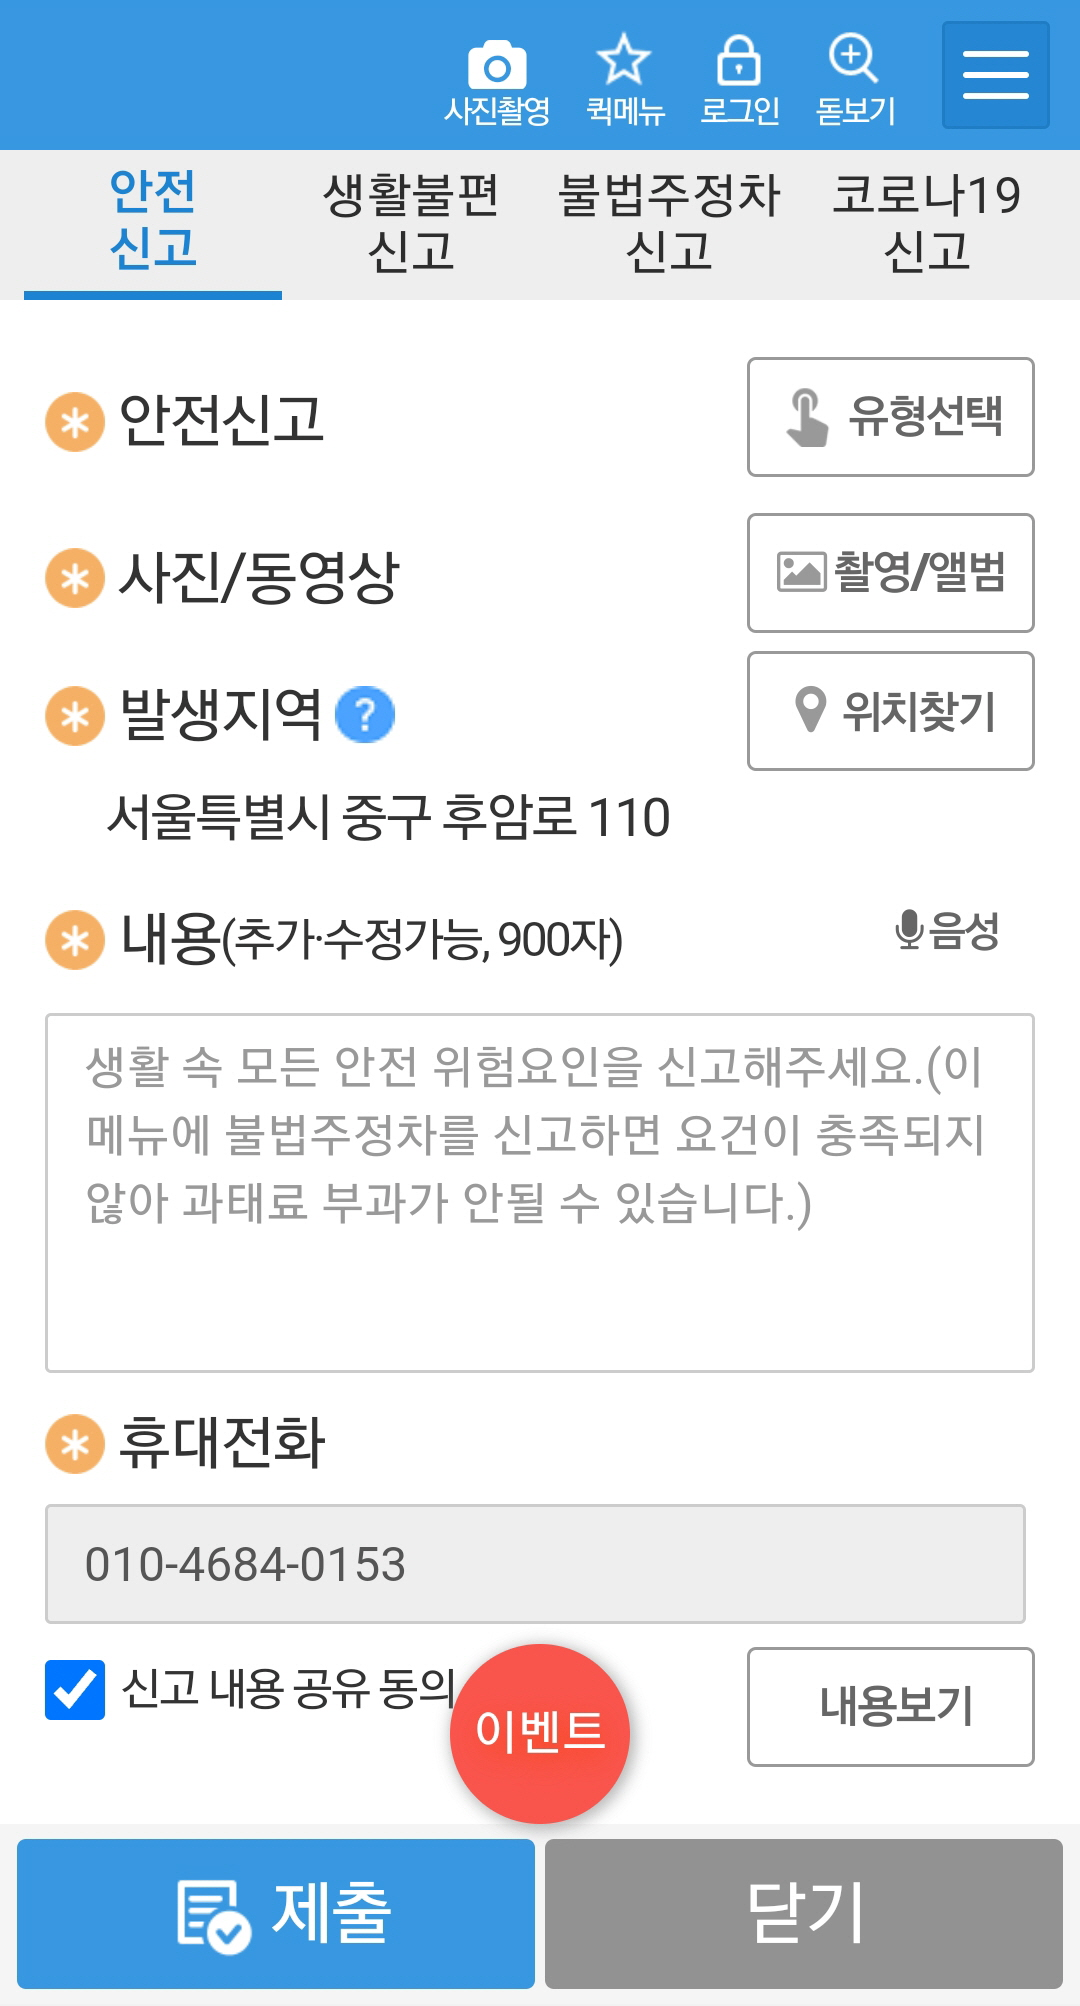
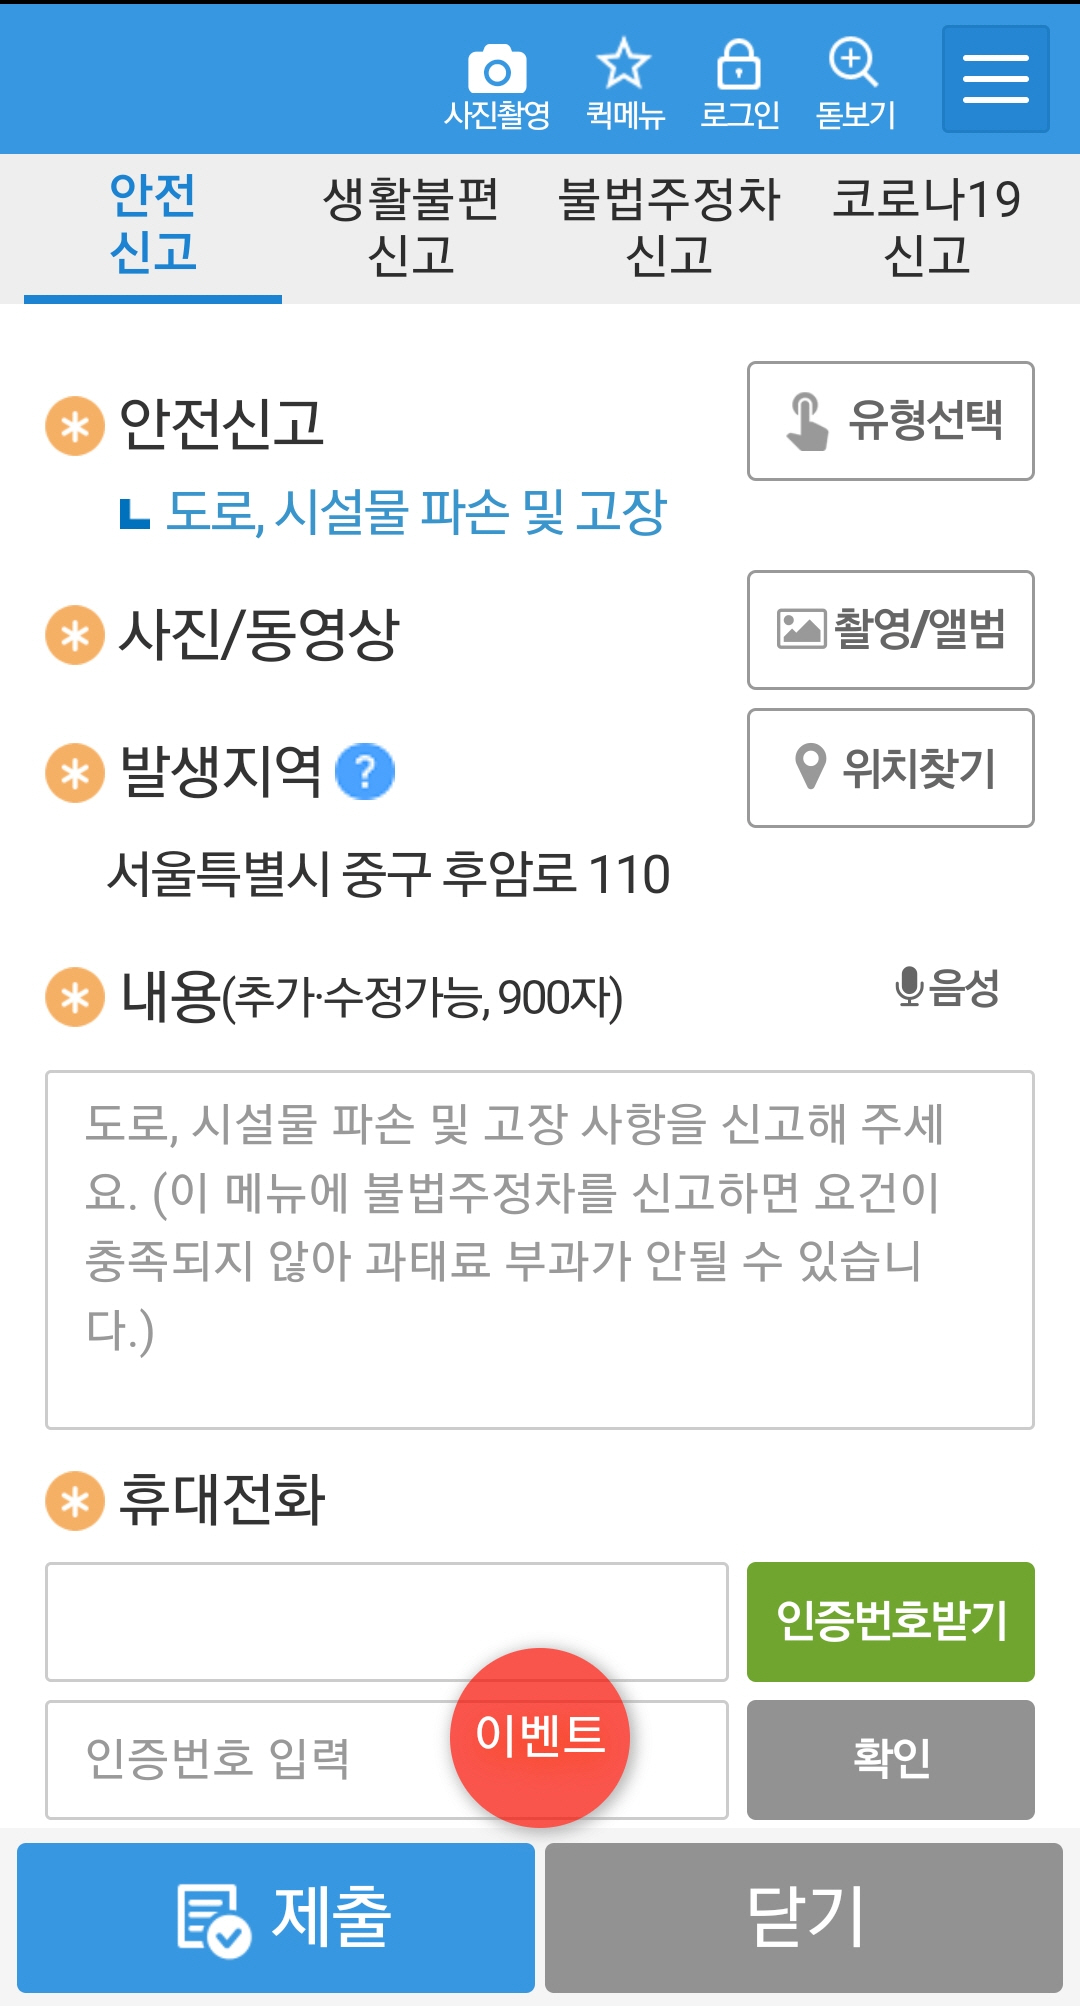
34.35추가

diff --git a/SD34/js/information.js b/SD34/js/information.js
@@ -1,0 +1,203 @@
+const pageNum = 25;
+const pageName = "SD34";
+for (j = 1; j <= pageNum; j++) {
+    contentImage.push(`../assets/${pageName}/image/${j}.jpg`);
+    audio = new Audio(`../assets/${pageName}/audio/${j}.mp3`);
+    audioArray.push(audio);
+}
+
+const page1 = "안전신문고를 활용하면 생활 속 안전 신고, 생활 불편 신고, 불법 주정차 신고 등이 가능합니다. 실습에서는  파손된 시설물을 신고하겠습니다. 화면을 눌러서 다음으로 진행해 주세요.";
+const page2 = "안전신문고 이용을 위한 필수 필요 정보와 권한에 대한 알림입니다. 앱 이용을 위해 사용자 휴대폰 번호를 수집에 동의하고 필수 권한 허용을 모두 승인해야 합니다. 내용을 확인하고  예를 눌러 다음으로 진행해 주세요.";
+const page3 = "앱 접근 권한 안내 입니다. 접근 권한과 필요한 이유를 확인하고 화면 하단 확인 버튼을 눌러서 다음으로 진행해 주세요.";
+const page4 = "내 기기 위치 접근을 허용하겠습니다. 허용을 눌러서 다음으로 진행해 주세요.";
+const page5 = "전화를 걸고 관리하도록 허용하겠습니다. 허용을 눌러서 다음으로 진행해 주세요.";
+const page6 = "사진, 미디어, 파일에 접근을 허용하겠습니다. 허용을 눌러서 다음으로 진행해 주세요.";
+const page7 = "사진 촬영과 동영상을 녹화를 허용하겠습니다. 허용을 눌러서 다음으로 진행해 주세요.";
+const page8 = "오디오 녹음 권한을 허용하겠습니다. 허용을 눌러서 다음으로 진행해 주세요.";
+const page9 = "안전신문고가 실행되었습니다. 안전 신고, 생활 불편 신고, 불법 주정차 신고, 코로나19 신고 버튼이 있습니다. 실습에서는 안전 신고를 진행하겠습니다. 안전신고 오른쪽 유형 선택 버튼을 눌러주세요.";
+const page10 = "안전 신고 유형에는 총 7가지 유형이 있습니다. 실습에서는 도로, 시설물 파손 및 고장 신고를 진행하겠습니다.";
+const page11 = "도로, 시설물 파손 및 고장 신고 안내 사항을 확인하고 화면 하단 확인을 눌러주세요.";
+const page12 = "안전 신고 유형이 도로, 시설물 파손 및 고장으로 선택되었습니다. 사진/동영상 항목 오른쪽에 있는 촬영/앨범 버튼을 눌러주세요.";
+const page13 = "사진과 동영상을 바로 촬영하거나, 촬영한 사진과 동영상을 휴대폰 앨범에서 선택하여 첨부할 수 있습니다. 실습에서는 사진촬영으로 진행하겠습니다. 사진촬영 버튼을 눌러주세요.";
+const page14 = "카메라 기능 자동 종료 알림입니다. 확인하고 사진 촬영을 시작하겠습니다. 촬영 버튼을 눌러주세요.";
+const page15 = "카메라가 실행됩니다. 카메라의 동그라미 촬영 버튼을 눌러서 시설물의 파손된 부분을 촬영해 주세요.";
+const page16 = "사진이 촬영되었습니다. 사진을 다시 찍고 싶다면, 화면 하단의 '다시 시도' 버튼을 눌러서 재촬영 할 수 있습니다. 실습에서는 이 사진을 사용하겠습니다. 화면 하단 검은색 영역의 확인 버튼을 눌러주세요.";
+const page17 = "사진 첨부가 완료되었습니다. 정확한 발생 지역 제공은 민원 해결에 매우 중요합니다. 발생지역을 선택하겠습니다. 발생지역 항목 오른쪽에 위치 찾기 버튼을 눌러주세요.";
+const page18 = "위치 찾기 화면에서는 주소 검색과 키워드 검색 기능을 제공합니다. 기본 위치는 GPS에서 확인한 현재 위치가 표시됩니다. 실습에서는 GPS에서 확인한 현재 위치로 진행하겠습니다. 위치를 확인하고, 화면 하단 파란색 위치 선택 버튼을 눌러주세요.";
+const page19 = "위치 선택이 완료되었습니다. 민원 내용을 추가하겠습니다. 실습에서는 '철조망에 보행자가 다칠 수 있어요'라고 내용을 입력하였습니다. 화면 하단 파란색 제출 버튼을 눌러주세요.";
+const page20 = "인적 사항 입력은 선택입니다. 실습에서는 아니오를 눌러서 진행해 주세요.";
+const page21 = "안전신문고 앱에서 보내는 알림 수신 동의 안내입니다. 실습에서는 아니오를 눌러서 진행해 주세요.";
+const page22 = "인적 사항은 선택 항목이므로 실습에서는 인적 사항을 입력하지 않고 제출하겠습니다. 화면 하단 파란색 제출 버튼을 눌러주세요.";
+const page23 = "최종 제출 확인 안내입니다. 신고내용 제출 완료를 위해 예를 눌러주세요.";
+const page24 = "안전신고 접수가 완료되었습니다. 비회원은 신고번호를 알아야 처리 과정 및 조치 결과 조회가 가능합니다. 화면 하단 홈으로 버튼을 눌러주세요.";
+const page25 = "안전신문고 첫 화면입니다. 안전신문고 서비스를 활용하여 편리하게 민원을 처리할 수 있습니다.";
+
+pageDescArray.push(
+    page1,
+    page2,
+    page3,
+    page4,
+    page5,
+    page6,
+    page7,
+    page8,
+    page9,
+    page10,
+    page11,
+    page12,
+    page13,
+    page14,
+    page15,
+    page16,
+    page17,
+    page18,
+    page19,
+    page20,
+    page21,
+    page22,
+    page23,
+    page24,
+    page25
+);
+
+const inputPage = [{ page: null, correctAnswer: null }];
+
+const coordinate1 = {
+    startRateX: 0,
+    startRateY: 0,
+    endRateX: 1,
+    endRateY: 1
+};
+
+const coordinate2 = {
+    startRateX: 0.9121813031161473, startRateY: 0.8030534351145038, endRateX: 0.08498583569405099, endRateY: 0.7038167938931298
+};
+
+const coordinate3 = {
+    startRateX: 0.9660056657223796, startRateY: 0.899236641221374, endRateX: 0.031161473087818695, endRateY: 0.8076335877862595
+};
+
+const coordinate4 = {
+    startRateX: 0.9235127478753541, startRateY: 0.6106870229007634, endRateX: 0.6798866855524079, endRateY: 0.5343511450381679
+};
+
+const coordinate5 = {
+    startRateX: 0.9235127478753541, startRateY: 0.6106870229007634, endRateX: 0.6798866855524079, endRateY: 0.5343511450381679
+};
+
+const coordinate6 = {
+    startRateX: 0.9235127478753541, startRateY: 0.6106870229007634, endRateX: 0.6798866855524079, endRateY: 0.5343511450381679
+};
+
+const coordinate7 = {
+    startRateX: 0.9235127478753541, startRateY: 0.6106870229007634, endRateX: 0.6798866855524079, endRateY: 0.5343511450381679
+};
+
+const coordinate8 = {
+    startRateX: 0.9235127478753541, startRateY: 0.6106870229007634, endRateX: 0.6798866855524079, endRateY: 0.5343511450381679
+};
+
+const coordinate9 = {
+    startRateX: 0.6713881019830028, startRateY: 0.16793893129770993, endRateX: 0.9773371104815864, endRateY: 0.25190839694656486
+};
+
+const coordinate10 = {
+    startRateX: 0.9150141643059491, startRateY: 0.3114503816793893, endRateX: 0.08781869688385269, endRateY: 0.22748091603053436
+};
+
+const coordinate11 = {
+    startRateX: 0.5014164305949008, startRateY: 0.8412213740458016, endRateX: 0.0764872521246459, endRateY: 0.7572519083969466
+};
+
+const coordinate12 = {
+    startRateX: 0.9915014164305949, startRateY: 0.34961832061068704, endRateX: 0.6572237960339944, endRateY: 0.2748091603053435
+};
+
+const coordinate13 = {
+    startRateX: 0.08498583569405099, startRateY: 0.22290076335877862, endRateX: 0.9150141643059491, endRateY: 0.31297709923664124
+};
+
+const coordinate14 = {
+    startRateX: 0.1048158640226629, startRateY: 0.3786259541984733, endRateX: 0.8951841359773371, endRateY: 0.47480916030534354
+};
+
+const coordinate15 = {
+    startRateX: 0.6543909348441926, startRateY: 0.9435114503816794, endRateX: 0.34844192634560905, endRateY: 0.8259541984732824
+};
+
+const coordinate16 = {
+    startRateX: 0.5949008498583569, startRateY: 0.899236641221374, endRateX: 0.8385269121813032, endRateY: 0.9954198473282443
+};
+
+const coordinate17 = {
+    startRateX: 0.9886685552407932, startRateY: 0.6091603053435114, endRateX: 0.6657223796033994, endRateY: 0.5206106870229008
+};
+
+const coordinate18 = {
+    startRateX: 0.028328611898016998, startRateY: 0.7618320610687023, endRateX: 0.9745042492917847, endRateY: 0.8458015267175573
+};
+
+const coordinate19 = {
+    startRateX: 0,
+    startRateY: 0,
+    endRateX: 1,
+    endRateY: 1
+};
+
+const coordinate20 = {
+    startRateX: 0.6175637393767706, startRateY: 0.5740458015267176, endRateX: 0.36827195467422097, endRateY: 0.48854961832061067
+};
+
+const coordinate21 = {
+    startRateX: 0.11898016997167139, startRateY: 0.2885496183206107, endRateX: 0.8838526912181303, endRateY: 0.366412213740458
+};
+
+const coordinate22 = {
+    startRateX: 0.49575070821529743, startRateY: 0.9969465648854962, endRateX: 0.0084985835694051, endRateY: 0.917557251908397
+};
+
+const coordinate23 = {
+    startRateX: 0.4985835694050991, startRateY: 0.332824427480916, endRateX: 0.8781869688385269, endRateY: 0.40916030534351144
+};
+
+const coordinate24 = {
+    startRateX: 0,
+    startRateY: 0,
+    endRateX: 1,
+    endRateY: 1
+};
+
+const coordinate25 = {
+    startRateX: 0,
+    startRateY: 0,
+    endRateX: 1,
+    endRateY: 1
+};
+
+coordinateArray.push(
+    coordinate1,
+    coordinate2,
+    coordinate3,
+    coordinate4,
+    coordinate5,
+    coordinate6,
+    coordinate7,
+    coordinate8,
+    coordinate9,
+    coordinate10,
+    coordinate11,
+    coordinate12,
+    coordinate13,
+    coordinate14,
+    coordinate15,
+    coordinate16,
+    coordinate17,
+    coordinate18,
+    coordinate19,
+    coordinate20,
+    coordinate21,
+    coordinate22,
+    coordinate23,
+    coordinate24,
+    coordinate25
+);

diff --git a/SD35/js/information.js b/SD35/js/information.js
@@ -1,0 +1,140 @@
+const pageNum = 16;
+const pageName = "SD35";
+for (j = 1; j <= pageNum; j++) {
+    contentImage.push(`../assets/${pageName}/image/${j}.jpg`);
+    audio = new Audio(`../assets/${pageName}/audio/${j}.mp3`);
+    audioArray.push(audio);
+}
+
+const page1 = "서울특별시 공공서비스 예약을 위해서는 로그인이 반드시 필요합니다. 비회원 로그인을 실습하겠습니다. 화면을 눌러서 다음으로 이동해 주세요.";
+const page2 = "로그인을 위해 서울특별시 공공서비스 예약 첫 화면에서 좌측 상단 세 줄 모양을 눌러서 메뉴를 펼쳐보겠습니다. 좌측 상단 서울특별시 로고 아래 세 줄 모양 메뉴 버튼을 눌러주세요.";
+const page3 = "서비스 메뉴가 열렸습니다. 로그인을 위해 상단 공공서비스 예약 로고 바로 아래 로그인 버튼을 눌러주세요.";
+const page4 = "서울시 통합 아이디로 회원가입을 하면 서비스를 편리하게 이용할 수 있습니다. 네이버 또는 카카오 아이디 로그인도 가능합니다. 실습에서는 비회원 로그인을 진행하겠습니다. 로그인 화면 탭에서 비회원 로그인 버튼을 눌러주세요.";
+const page5 = "휴대폰 본인 인증과 아이핀 본인 인증으로 비회원 로그인이 가능합니다. 실습에서는 휴대폰 본인인증으로 진행하겠습니다. 휴대폰 본인인증에서 본인인증 버튼을 눌러주세요.";
+const page6 = "본인인증을 위해서 이용 중이신 통신사를 선택해 주세요.";
+const page7 = "통신사가 선택되었습니다. 인증을 위한 전체 동의를 진행하겠습니다. 전체 동의 왼쪽 동그라미를 눌러서 선택해 주세요.";
+const page8 = "전체 동의가 선택되었습니다. 화면 하단 문자로 인증하기 버튼을 눌러서 인증을 진행해 주세요.";
+const page9 = "실습에서 입력한 정보는 저장 및 전송되지 않습니다. 문자 인증을 위해 이름을 입력하고 엔터 또는 확인을 눌러주세요.";
+const page10 = "주민번호 앞 생년월일 여섯 자리를 입력하고 엔터 또는 확인을 눌러주세요.";
+const page11 = "주민등록번호 뒤 첫 자리를 입력하고 엔터 또는 확인을 눌러주세요.";
+const page12 = "휴대폰 번호를 입력하고 엔터 또는 확인을 눌러주세요.";
+const page13 = "입력이 완료되었습니다. 진한 회색 확인 버튼을 눌러주세요.";
+const page14 = "문자로 인증번호가 발송됩니다. 인증은 3분 내에 진행해 주셔야 합니다. 실습에서 인증번호는 9,3,1,8,3,8을 입력하겠습니다. 인증번호 9,3,1,8,3,8을 입력하고 엔터 또는 확인을 눌러주세요.";
+const page15 = "인증번호 9,3,1,8,3,8 이 입력되었습니다. 인증 완료를 위해 진한 회색 인증 확인 버튼을 눌러주세요.";
+const page16 = "비회원 로그인이 완료되었습니다. 다음 시간에는 빠른 예약 기능을 활용해서 공공서비스 예약하는 법을 실습하겠습니다.";
+
+pageDescArray.push(
+    page1,
+    page2,
+    page3,
+    page4,
+    page5,
+    page6,
+    page7,
+    page8,
+    page9,
+    page10,
+    page11,
+    page12,
+    page13,
+    page14,
+    page15,
+    page16
+);
+
+const inputPage = [
+    { page: 9, correctAnswer: "한글2자이상" },
+    { page: 10, correctAnswer: "숫자만6자리" },
+    { page: 11, correctAnswer: "숫자만1자리" },
+    { page: 12, correctAnswer: "숫자만10-11자리" }
+    { page: 15, correctAnswer: "931838" }
+];
+
+const coordinate1 = {
+    startRateX: 0,
+    startRateY: 0,
+    endRateX: 1,
+    endRateY: 1
+};
+
+const coordinate2 = {
+    startRateX: 0.0169971671388102, startRateY: 0.3648854961832061, endRateX: 0.9801699716713881, endRateY: 0.6030534351145038
+};
+
+const coordinate3 = {
+    startRateX: 0.0056657223796034, startRateY: 0.1450381679389313, endRateX: 0.2521246458923513, endRateY: 0.2198473282442748
+};
+
+const coordinate4 = {
+    startRateX: 0.4985835694050991, startRateY: 0.33893129770992364, endRateX: 0.9631728045325779, endRateY: 0.39083969465648855
+};
+
+const coordinate5 = {
+    startRateX: 0.0764872521246459, startRateY: 0.5053435114503817, endRateX: 0.9206798866855525, endRateY: 0.6534351145038167
+};
+
+const coordinate6 = {
+    startRateX: 0.11331444759206799, startRateY: 0.250381679389313, endRateX: 0.8725212464589235, endRateY: 0.650381679389313
+};
+
+const coordinate7 = {
+    startRateX: 0.06515580736543909, startRateY: 0.6473282442748092, endRateX: 0.28611898016997167, endRateY: 0.6977099236641221
+};
+
+const coordinate8 = {
+    startRateX: 0.059490084985835696, startRateY: 0.7923664122137405, endRateX: 0.9405099150141643, endRateY: 0.8641221374045801
+};
+
+const coordinate9 = {
+    startRateX: 0.9235127478753541, startRateY: 0.2580152671755725, endRateX: 0.0708215297450425, endRateY: 0.20916030534351146
+};
+
+const coordinate10 = {
+    startRateX: 0.6288951841359773, startRateY: 0.36946564885496186, endRateX: 0.5325779036827195, endRateY: 0.31603053435114503
+};
+
+const coordinate11 = {
+    startRateX: 0.6288951841359773, startRateY: 0.36946564885496186, endRateX: 0.5325779036827195, endRateY: 0.31603053435114503
+};
+
+const coordinate12 = {
+    startRateX: 0.9291784702549575, startRateY: 0.4534351145038168, endRateX: 0.0708215297450425, endRateY: 0.40458015267175573
+};
+
+const coordinate13 = {
+    startRateX: 0.9376770538243626, startRateY: 0.5954198473282443, endRateX: 0.4985835694050991, endRateY: 0.5374045801526718
+};
+
+const coordinate14 = {
+    startRateX: 0.9376770538243626, startRateY: 0.5954198473282443, endRateX: 0.4985835694050991, endRateY: 0.5374045801526718
+};
+
+const coordinate15 = {
+    startRateX: 0.5014164305949008, startRateY: 0.33435114503816793, endRateX: 0.9376770538243626, endRateY: 0.3969465648854962
+};
+
+const coordinate16 = {
+    startRateX: 0,
+    startRateY: 0,
+    endRateX: 1,
+    endRateY: 1
+};
+
+coordinateArray.push(
+    coordinate1,
+    coordinate2,
+    coordinate3,
+    coordinate4,
+    coordinate5,
+    coordinate6,
+    coordinate7,
+    coordinate8,
+    coordinate9,
+    coordinate10,
+    coordinate11,
+    coordinate12,
+    coordinate13,
+    coordinate14,
+    coordinate15,
+    coordinate16
+);

diff --git a/SD35/index.html b/SD35/index.html
@@ -4,7 +4,7 @@
         <meta charset="UTF-8" />
         <meta http-equiv="X-UA-Compatible" content="IE=edge" />
         <meta name="viewport" content="width=device-width, initial-scale=1.0" />
-        <title>안전신문고 활용</title>
+        <title>서울시 공공예약서비스 비회원 로그인</title>
         <link rel="preconnect" href="https://fonts.googleapis.com" />
         <link rel="preconnect" href="https://fonts.gstatic.com" crossorigin />
         <link
@@ -17,7 +17,7 @@
         <section class="practice-section">
             <h1 class="sr-only">작업 영역</h1>
             <iframe src="../common/content-1.html" frameborder="0" id="working-space"></iframe>
-            <div class="click-area"><img src="../assets/SD26/image/0.jpg" alt="bg" class="bg-image" /></div>
+            <div class="click-area"><img src="../assets/SD33/image/0.jpg" alt="bg" class="bg-image" /></div>
         </section>
 
         <nav class="nav-section">
@@ -28,7 +28,7 @@
 
             <div class="nav-content-section">
                 <div class="nav-index-contents">
-                    <h1 class="index-contents-title">안전신문고 활용</h1>
+                    <h1 class="index-contents-title">서울시 공공예약서비스<br>비회원 로그인</h1>
                     <button type="submit" class="fill-button" id="go-main-page">시작</button>
                 </div>
 

diff --git a/SD34/index.html b/SD34/index.html
@@ -4,7 +4,7 @@
         <meta charset="UTF-8" />
         <meta http-equiv="X-UA-Compatible" content="IE=edge" />
         <meta name="viewport" content="width=device-width, initial-scale=1.0" />
-        <title>안전신문고 활용</title>
+        <title>정부24 등본발급 (패스인증서)</title>
         <link rel="preconnect" href="https://fonts.googleapis.com" />
         <link rel="preconnect" href="https://fonts.gstatic.com" crossorigin />
         <link
@@ -17,7 +17,7 @@
         <section class="practice-section">
             <h1 class="sr-only">작업 영역</h1>
             <iframe src="../common/content-1.html" frameborder="0" id="working-space"></iframe>
-            <div class="click-area"><img src="../assets/SD26/image/0.jpg" alt="bg" class="bg-image" /></div>
+            <div class="click-area"><img src="../assets/SD33/image/0.jpg" alt="bg" class="bg-image" /></div>
         </section>
 
         <nav class="nav-section">
@@ -28,7 +28,7 @@
 
             <div class="nav-content-section">
                 <div class="nav-index-contents">
-                    <h1 class="index-contents-title">안전신문고 활용</h1>
+                    <h1 class="index-contents-title">정부24 등본발급<br>(패스인증서)</h1>
                     <button type="submit" class="fill-button" id="go-main-page">시작</button>
                 </div>
 
